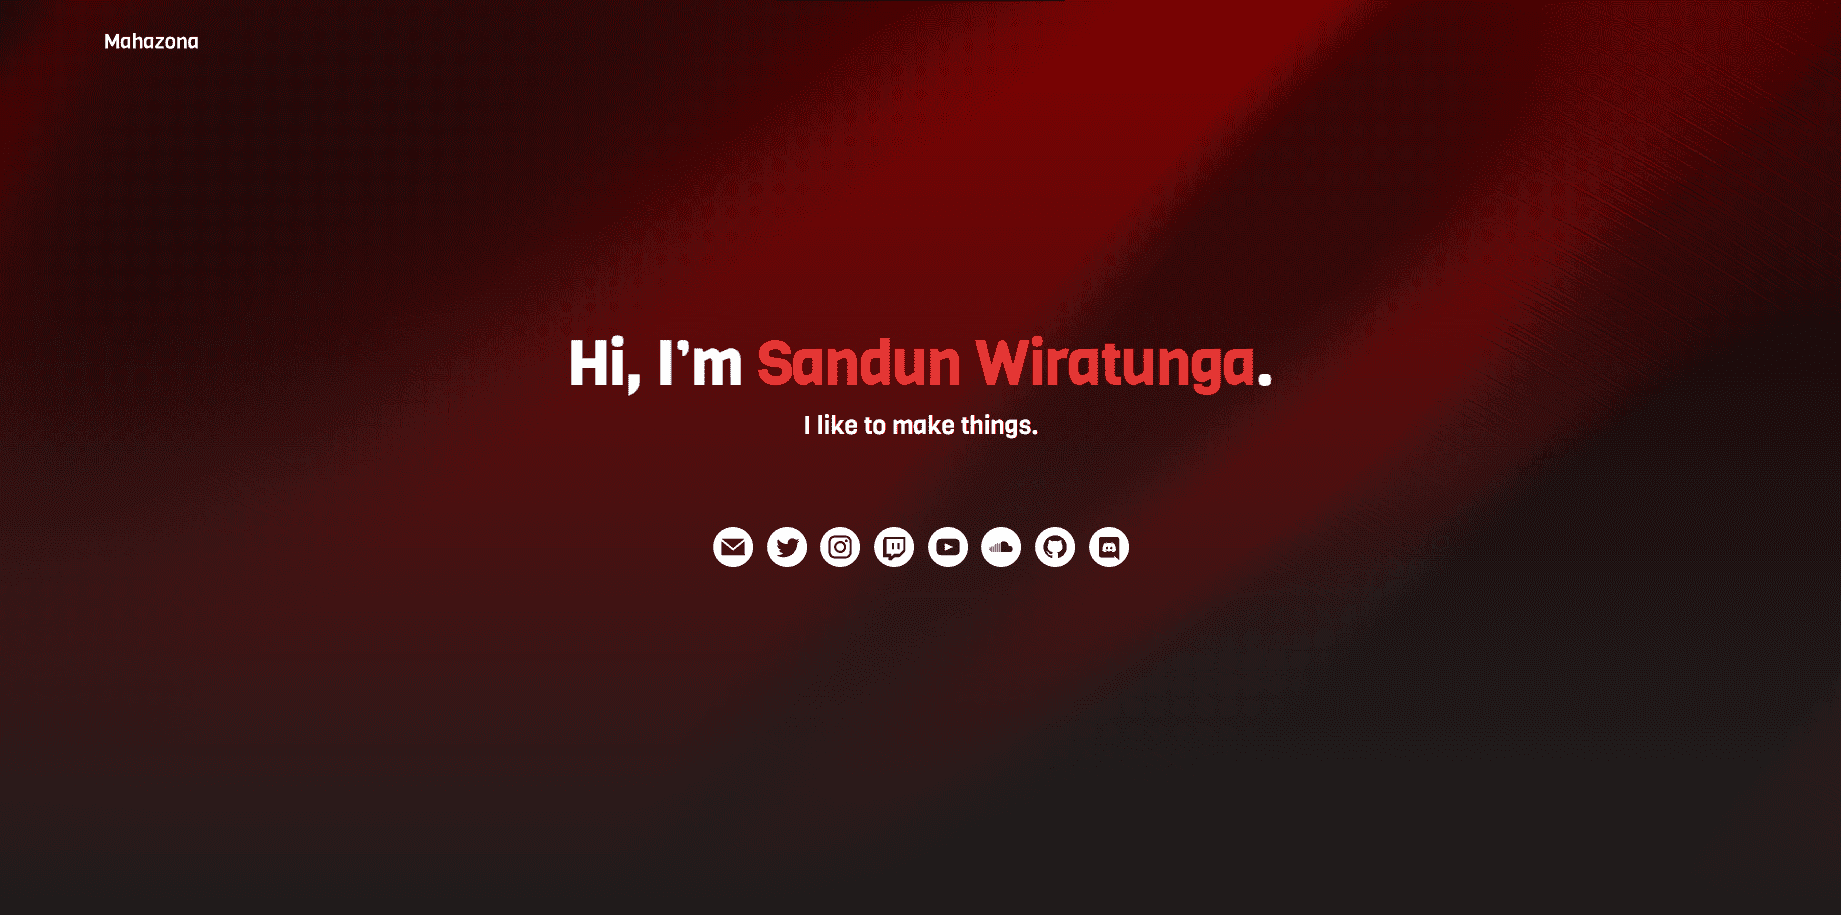
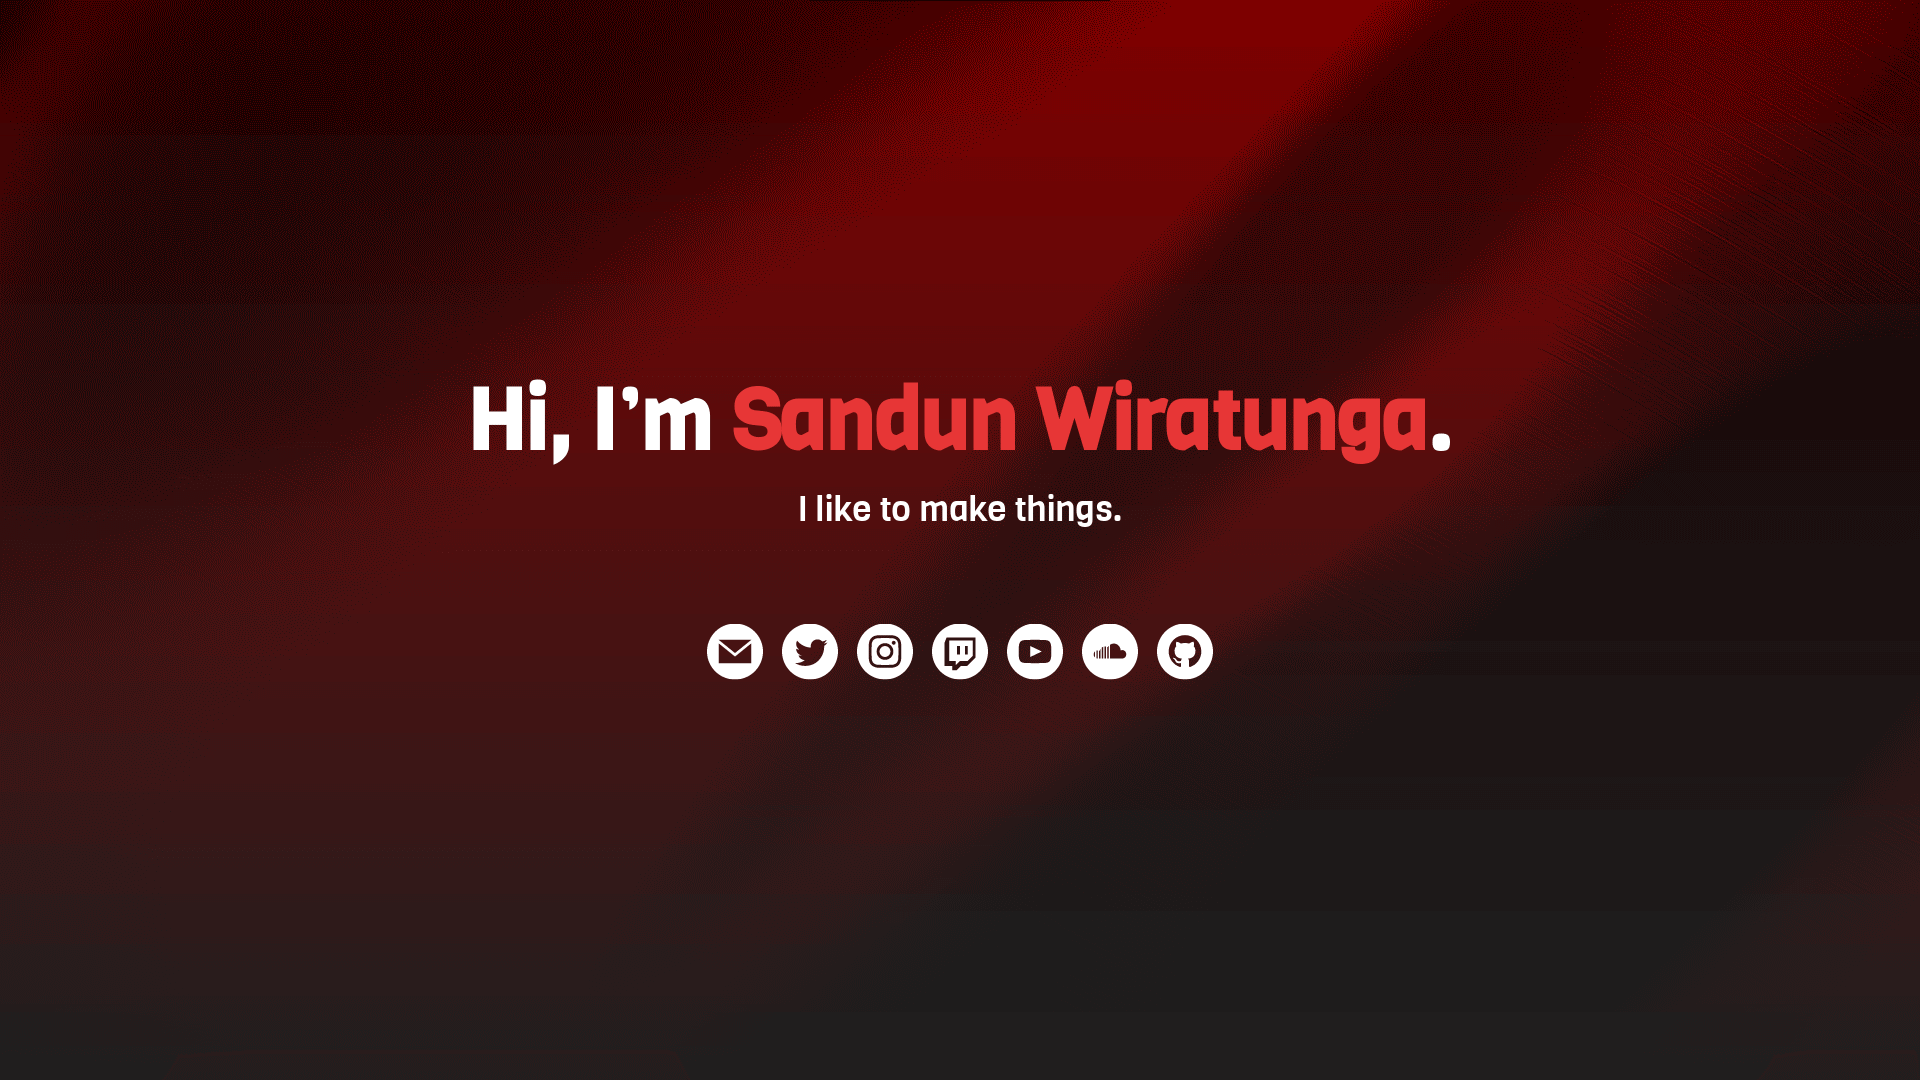
Basically changed website to a landing page with mobile view compatibilty lol

diff --git a/style.css b/style.css
@@ -57,7 +57,7 @@ html{
 .hero-content p{
   width: 100%;
   color: #ffffff;
-  margin-bottom: 60px;
+  margin-bottom: 40px;
   font-size: 25px;
 }
 
@@ -65,11 +65,13 @@ html{
   max-height: 22px;
 }
 
+/*Hidden Navbar*/
 nav{
   display: flex;
   align-items: center;
   justify-content: space-between;
   padding: 30px 100px;
+	visibility: hidden;
 }
 
 nav ul li{
@@ -202,3 +204,28 @@ nav ul li a:hover:after{
 
 /*------------------------------------------------Footer Section End (Hidden Now)*/
 
+
+/*Mobile Friendly Compatibility Start--------------------------------------------*/
+@media all and (max-width: 500px) {
+	.hero-content h1{
+  	font-size: 35px;
+  	font-weight: 900;
+  	line-height: 40px;
+	}
+	
+	.hero-content p{
+  	font-size: 20px;
+		margin-top: 20px;
+		margin-bottom: 20px;
+	}
+	
+	.sm-icons img{
+		width: 30px;
+	}
+
+	nav{
+		position: sticky;
+		top: 0%;
+	}
+}
+/*----------------------------------------------Mobile Friendly Compatibility End*/
